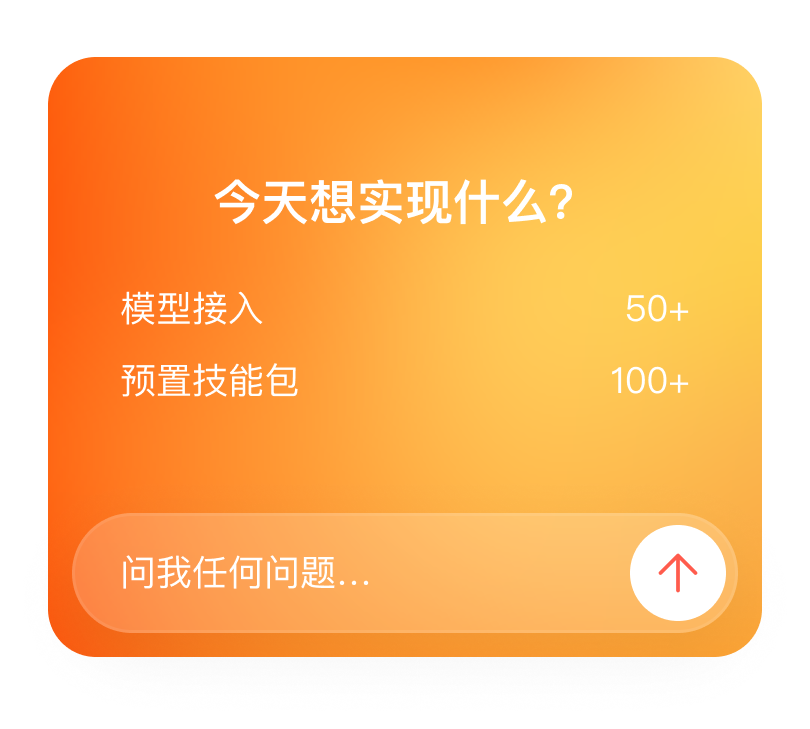
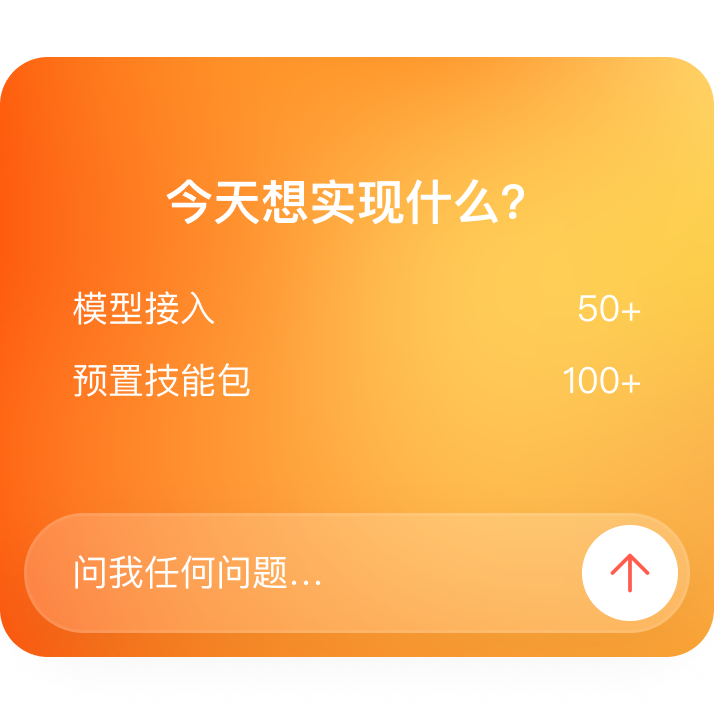
Update capabilities bento visuals

diff --git a/index.html b/index.html
@@ -8,7 +8,7 @@
   <script src="js/preload.js"></script>
   <script src="js/breakpoints.js"></script>
   <link rel="stylesheet" href="css/breakpoints.css" />
-  <link rel="stylesheet" href="css/styles.css?v=mobile-settings-presets-20260815" />
+  <link rel="stylesheet" href="css/styles.css?v=capability-daily-visual-center-20260817" />
 </head>
 <body>
 
@@ -305,7 +305,7 @@
 </section>
 <section class="section flow-section"><div class="flow-noise" aria-hidden="true"></div><div class="flow-sticky"><div class="flow-multi-stage"><div class="flow-track flow-multi-cards" aria-label="Hz-Hermes 执行链路"><article style="--x:-442.4px;--y:-238px;--w:317.2px;--h:63.7px;--from-x:-1100;--from-y:-700;--start:.1;--start-scale:.4"><div class="flow-card-anim"><div class="flow-card-inner"><div class="flow-card-main"><span>01</span><h3>任务接收</h3></div><p>理解真实意图</p></div></div></article><article style="--x:218.6px;--y:-257px;--w:317.2px;--h:65px;--from-x:700;--from-y:-800;--start:.55;--start-scale:.5"><div class="flow-card-anim"><div class="flow-card-inner"><div class="flow-card-main"><span>02</span><h3>任务拆解</h3></div><p>解析执行步骤</p></div></div></article><article style="--x:511px;--y:-57px;--w:226px;--h:45.385px;--from-x:1300;--from-y:-200;--start:.3;--start-scale:.55"><div class="flow-card-anim"><div class="flow-card-inner"><div class="flow-card-main"><span>03</span><h3>流程调度</h3></div><p>编排顺序与资源</p></div></div></article><article style="--x:-546.4px;--y:128px;--w:317.2px;--h:65px;--from-x:-1300;--from-y:250;--start:.65;--start-scale:.45"><div class="flow-card-anim"><div class="flow-card-inner"><div class="flow-card-main"><span>04</span><h3>工具调用</h3></div><p>激活专业能力</p></div></div></article><article style="--x:229px;--y:155px;--w:218px;--h:44.672px;--from-x:700;--from-y:500;--start:.8;--start-scale:.5"><div class="flow-card-anim"><div class="flow-card-inner is-muted"><div class="flow-card-main"><span>05</span><h3>协助执行</h3></div><p>跨应用完成操作</p></div></div></article><article style="--x:715.5px;--y:165px;--w:409px;--h:83.811px;--from-x:1500;--from-y:350;--start:.2;--start-scale:.35"><div class="flow-card-anim"><div class="flow-card-inner"><div class="flow-card-main"><span>06</span><h3>结果交付</h3></div><p>输出可用成品</p></div></div></article><article aria-hidden="true" class="flow-card-skeleton" style="--x:-800px;--y:-137px;--w:200px;--h:42px;--from-x:-1800;--from-y:-400;--start:0;--start-scale:.55"><div class="flow-card-anim"><div class="flow-card-inner is-muted"><div class="flow-card-main"><span></span><h3></h3></div><p></p></div></div></article><article aria-hidden="true" class="flow-card-skeleton" style="--x:620px;--y:-177px;--w:200px;--h:40px;--from-x:1300;--from-y:-700;--start:.5;--start-scale:.6"><div class="flow-card-anim"><div class="flow-card-inner is-muted"><div class="flow-card-main"><span></span><h3></h3></div><p></p></div></div></article><article aria-hidden="true" class="flow-card-skeleton" style="--x:850px;--y:3px;--w:200px;--h:42px;--from-x:1900;--from-y:-100;--start:.15;--start-scale:.45"><div class="flow-card-anim"><div class="flow-card-inner is-muted"><div class="flow-card-main"><span></span><h3></h3></div><p></p></div></div></article><article aria-hidden="true" class="flow-card-skeleton" style="--x:320px;--y:303px;--w:240px;--h:46px;--from-x:1100;--from-y:900;--start:.7;--start-scale:.4"><div class="flow-card-anim"><div class="flow-card-inner"><div class="flow-card-main"><span></span><h3></h3></div><p></p></div></div></article><article aria-hidden="true" class="flow-card-skeleton" style="--x:-450px;--y:333px;--w:220px;--h:42px;--from-x:-1500;--from-y:800;--start:.85;--start-scale:.5"><div class="flow-card-anim"><div class="flow-card-inner is-muted"><div class="flow-card-main"><span></span><h3></h3></div><p></p></div></div></article><article aria-hidden="true" class="flow-card-skeleton" style="--x:-98.4px;--y:267px;--w:317.2px;--h:65px;--from-x:0;--from-y:900;--start:.4;--start-scale:.45"><div class="flow-card-anim"><div class="flow-card-inner"><div class="flow-card-main"><span></span><h3></h3></div><p></p></div></div></article></div><div class="section-title centered flow-multi-title"><h2><span class="flow-word flow-word-1"><span>从一句话</span></span> <span class="flow-word flow-word-2"><span>到一个结果</span></span></h2><p>你给出指令，Hz-Hermes 自主完成全部执行链路。</p></div></div></div>
 </section>
-<section class="section capabilities-section capabilities-bento"><div class="section-title"><h2>让 AI 能力<br/>真正融入日常工作</h2><p>从日常办公到专业领域，一个 AI 搞定。</p></div><div class="capability-list" role="list"><article role="listitem"><span class="cap-number">01</span><div class="capability-copy"><h3>深度研究</h3><p>给一个主题，它会自主搜索、交叉验证、整理输出结构化报告。做完直接生成网页或文档，拿来就能用。</p></div><div class="capability-visual" aria-hidden="true"><svg class="cap-cover-icon" viewBox="0 0 24 24"><path d="m8 11 2 2 4-4"></path><circle cx="11" cy="11" r="8"></circle><path d="m21 21-4.3-4.3"></path></svg></div></article><article role="listitem"><span class="cap-number">02</span><div class="capability-copy"><h3>AI 智能客服</h3><p>对接微信与公众号，自动识别客户意图并回复。常见问题自动处理，复杂情况升级人工。</p></div><div class="capability-visual" aria-hidden="true"><svg class="cap-cover-icon" viewBox="0 0 24 24"><path d="M21 15a2 2 0 0 1-2 2H7l-4 4V5a2 2 0 0 1 2-2h14a2 2 0 0 1 2 2z"></path><path d="M13 8H7"></path><path d="M17 12H7"></path></svg></div></article><article role="listitem"><span class="cap-number">03</span><div class="capability-copy"><h3>内容创作</h3><p>写文案、做 PPT、生成宣传图、剪视频脚本、设计网页，从文字到视觉完成高质量交付。</p></div><div class="capability-visual" aria-hidden="true"><svg class="cap-cover-icon" viewBox="0 0 24 24"><path d="M9.937 15.5A2 2 0 0 0 8.5 14.063l-6.135-1.582a.5.5 0 0 1 0-.962L8.5 9.936A2 2 0 0 0 9.937 8.5l1.582-6.135a.5.5 0 0 1 .962 0L14.063 8.5A2 2 0 0 0 15.5 9.937l6.135 1.581a.5.5 0 0 1 0 .964L15.5 14.063a2 2 0 0 0-1.437 1.437l-1.582 6.135a.5.5 0 0 1-.962 0z"></path><path d="M20 3v4"></path><path d="M22 5h-4"></path><path d="M4 17v2"></path><path d="M5 18H3"></path></svg></div></article><article role="listitem"><span class="cap-number">04</span><div class="capability-copy"><h3>数据分析</h3><p>上传 Excel 或 CSV，完成探索性分析、可视化图表与洞察报告，不用写代码也能拿到结论。</p></div><div class="capability-visual" aria-hidden="true"><svg class="cap-cover-icon" viewBox="0 0 24 24"><path d="M12 16v5"></path><path d="M16 14v7"></path><path d="M20 10v11"></path><path d="m22 3-8.646 8.646a.5.5 0 0 1-.708 0L9.354 8.354a.5.5 0 0 0-.707 0L2 15"></path><path d="M4 18v3"></path><path d="M8 14v7"></path></svg></div></article><article role="listitem"><span class="cap-number">05</span><div class="capability-copy"><h3>文档撰写</h3><p>标书、报告、论文、方案，从深度研究、整理框架到撰写排版，一条任务完整推进。</p></div><div class="capability-visual" aria-hidden="true"><svg class="cap-cover-icon" viewBox="0 0 24 24"><path d="M15 2H6a2 2 0 0 0-2 2v16a2 2 0 0 0 2 2h12a2 2 0 0 0 2-2V7z"></path><path d="M14 2v4a2 2 0 0 0 2 2h4"></path><path d="M10 9H8"></path><path d="M16 13H8"></path><path d="M16 17H8"></path></svg></div></article><article role="listitem"><span class="cap-number">06</span><div class="capability-copy"><h3>定时自动化</h3><p>日报生成、竞品监控、数据巡检。设置一次，每日自动执行并推送到微信或钉钉。</p></div><div class="cap-daily-brief" aria-hidden="true"><div class="cap-daily-heading"><div class="cap-daily-title">每日简报简</div><button class="cap-daily-close" type="button" tabindex="-1" aria-label="关闭"><svg viewBox="0 0 24 24" aria-hidden="true"><path d="M18 6 6 18"></path><path d="m6 6 12 12"></path></svg></button></div><div class="cap-daily-content"><p>每日收集10条最热门简报，发送到我的邮箱 <span>📮</span>xiaoyun@mail.com</p></div><div class="cap-daily-footer"><div class="cap-daily-toolbar"><button class="cap-daily-tool" type="button" tabindex="-1"><img src="assets/capabilities/daily/daily-laptop.svg" alt=""/><span>对话</span><img src="assets/capabilities/daily/daily-chevron-down.svg" alt=""/></button><button class="cap-daily-tool" type="button" tabindex="-1"><img src="assets/capabilities/daily/daily-folder-closed.svg" alt=""/><span>默认目录</span><img src="assets/capabilities/daily/daily-chevron-down.svg" alt=""/></button><button class="cap-daily-tool" type="button" tabindex="-1"><img src="assets/capabilities/daily/daily-timer.svg" alt=""/><span>工作日09:00</span><img src="assets/capabilities/daily/daily-chevron-down.svg" alt=""/></button><button class="cap-daily-tool" type="button" tabindex="-1"><img src="assets/capabilities/daily/daily-package.svg" alt=""/><span>默认模型</span><img src="assets/capabilities/daily/daily-chevron-down.svg" alt=""/></button><button class="cap-daily-tool" type="button" tabindex="-1"><img src="assets/capabilities/daily/daily-layout-grid.svg" alt=""/><span>已设2项</span><img src="assets/capabilities/daily/daily-chevron-down.svg" alt=""/></button></div><div class="cap-daily-actions"><button class="cap-daily-button cap-daily-cancel" type="button" tabindex="-1">取消</button><button class="cap-daily-button cap-daily-create" type="button" tabindex="-1">创建</button></div></div></div></article></div>
+<section class="section capabilities-section capabilities-bento"><div class="section-title"><h2>让 AI 能力<br/>真正融入日常工作</h2><p>从日常办公到专业领域，一个 AI 搞定。</p></div><div class="capability-list" role="list"><article role="listitem"><span class="cap-number">01</span><div class="capability-copy"><h3>深度研究</h3><p>给一个主题，它会自主搜索、交叉验证、整理输出结构化报告。做完直接生成网页或文档，拿来就能用。</p></div><div class="capability-visual" aria-hidden="true"><img class="capability-visual-image" src="assets/capabilities/bento-visual-1.png?v=20260817b" alt="" /><svg class="cap-cover-icon" viewBox="0 0 24 24"><path d="m8 11 2 2 4-4"></path><circle cx="11" cy="11" r="8"></circle><path d="m21 21-4.3-4.3"></path></svg></div></article><article role="listitem"><span class="cap-number">02</span><div class="capability-copy"><h3>AI 智能客服</h3><p>对接微信与公众号，自动识别客户意图并回复。常见问题自动处理，复杂情况升级人工。</p></div><div class="capability-visual" aria-hidden="true"><img class="capability-visual-image" src="assets/capabilities/bento-visual-2.png?v=20260817b" alt="" /><svg class="cap-cover-icon" viewBox="0 0 24 24"><path d="M21 15a2 2 0 0 1-2 2H7l-4 4V5a2 2 0 0 1 2-2h14a2 2 0 0 1 2 2z"></path><path d="M13 8H7"></path><path d="M17 12H7"></path></svg></div></article><article role="listitem"><span class="cap-number">03</span><div class="capability-copy"><h3>内容创作</h3><p>写文案、做 PPT、生成宣传图、剪视频脚本、设计网页，从文字到视觉完成高质量交付。</p></div><div class="capability-visual" aria-hidden="true"><img class="capability-visual-image" src="assets/capabilities/bento-visual-3.png?v=20260817b" alt="" /><svg class="cap-cover-icon" viewBox="0 0 24 24"><path d="M9.937 15.5A2 2 0 0 0 8.5 14.063l-6.135-1.582a.5.5 0 0 1 0-.962L8.5 9.936A2 2 0 0 0 9.937 8.5l1.582-6.135a.5.5 0 0 1 .962 0L14.063 8.5A2 2 0 0 0 15.5 9.937l6.135 1.581a.5.5 0 0 1 0 .964L15.5 14.063a2 2 0 0 0-1.437 1.437l-1.582 6.135a.5.5 0 0 1-.962 0z"></path><path d="M20 3v4"></path><path d="M22 5h-4"></path><path d="M4 17v2"></path><path d="M5 18H3"></path></svg></div></article><article role="listitem"><span class="cap-number">04</span><div class="capability-copy"><h3>数据分析</h3><p>上传 Excel 或 CSV，完成探索性分析、可视化图表与洞察报告，不用写代码也能拿到结论。</p></div><div class="capability-visual" aria-hidden="true"><img class="capability-visual-image" src="assets/capabilities/bento-visual-4.png?v=20260817b" alt="" /><svg class="cap-cover-icon" viewBox="0 0 24 24"><path d="M12 16v5"></path><path d="M16 14v7"></path><path d="M20 10v11"></path><path d="m22 3-8.646 8.646a.5.5 0 0 1-.708 0L9.354 8.354a.5.5 0 0 0-.707 0L2 15"></path><path d="M4 18v3"></path><path d="M8 14v7"></path></svg></div></article><article role="listitem"><span class="cap-number">05</span><div class="capability-copy"><h3>文档撰写</h3><p>标书、报告、论文、方案，从深度研究、整理框架到撰写排版，一条任务完整推进。</p></div><div class="capability-visual" aria-hidden="true"><img class="capability-visual-image" src="assets/capabilities/bento-visual-5.png?v=20260817b" alt="" /><svg class="cap-cover-icon" viewBox="0 0 24 24"><path d="M15 2H6a2 2 0 0 0-2 2v16a2 2 0 0 0 2 2h12a2 2 0 0 0 2-2V7z"></path><path d="M14 2v4a2 2 0 0 0 2 2h4"></path><path d="M10 9H8"></path><path d="M16 13H8"></path><path d="M16 17H8"></path></svg></div></article><article role="listitem"><span class="cap-number">06</span><div class="capability-copy"><h3>定时自动化</h3><p>日报生成、竞品监控、数据巡检。设置一次，每日自动执行并推送到微信或钉钉。</p></div><div class="capability-visual cap-daily-visual" aria-hidden="true"><div class="cap-daily-brief"><div class="cap-daily-heading"><div class="cap-daily-title">每日简报</div><button class="cap-daily-close" type="button" tabindex="-1" aria-label="关闭"><svg viewBox="0 0 24 24" aria-hidden="true"><path d="M18 6 6 18"></path><path d="m6 6 12 12"></path></svg></button></div><div class="cap-daily-content"><p>每日收集10条最热门简报，发送到我的邮箱 <span>📮</span>xiaoyun@mail.com</p></div><div class="cap-daily-footer"><div class="cap-daily-toolbar"><button class="cap-daily-tool" type="button" tabindex="-1"><img src="assets/capabilities/daily/daily-laptop.svg" alt=""/><span>对话</span><img src="assets/capabilities/daily/daily-chevron-down.svg" alt=""/></button><button class="cap-daily-tool" type="button" tabindex="-1"><img src="assets/capabilities/daily/daily-folder-closed.svg" alt=""/><span>默认目录</span><img src="assets/capabilities/daily/daily-chevron-down.svg" alt=""/></button><button class="cap-daily-tool" type="button" tabindex="-1"><img src="assets/capabilities/daily/daily-timer.svg" alt=""/><span>工作日09:00</span><img src="assets/capabilities/daily/daily-chevron-down.svg" alt=""/></button><button class="cap-daily-tool" type="button" tabindex="-1"><img src="assets/capabilities/daily/daily-package.svg" alt=""/><span>默认模型</span><img src="assets/capabilities/daily/daily-chevron-down.svg" alt=""/></button><button class="cap-daily-tool" type="button" tabindex="-1"><img src="assets/capabilities/daily/daily-layout-grid.svg" alt=""/><span>已设2项</span><img src="assets/capabilities/daily/daily-chevron-down.svg" alt=""/></button></div><div class="cap-daily-actions"><button class="cap-daily-button cap-daily-cancel" type="button" tabindex="-1">取消</button><button class="cap-daily-button cap-daily-create" type="button" tabindex="-1">创建</button></div></div></div></div></article></div>
 </section>
 <section class="section desktop-section" id="desktop"><div class="desktop-copy"><h2>你下指令<br/>它跑腿</h2><p>Hz-Hermes 能理解你的工作场景和需求，在你授权和控制下，协助完成电脑上的各类操作。</p><p>你不需要自己打开软件、点击按钮或填写表格。告诉它要什么结果，它来执行过程；每一步清晰透明，可随时查看、暂停或调整。</p><div class="check-list"><div><span class="check-icon"><svg aria-hidden="true" viewBox="0 0 24 24"><path d="M12 3 20 7v5c0 4.6-3.2 7.9-8 9-4.8-1.1-8-4.4-8-9V7z"></path><path d="m9 12 2 2 4-5"></path></svg></span><p><strong>全程可控</strong>所有操作经你授权，每一步可查看、可撤回</p></div><div><span class="check-icon"><svg aria-hidden="true" viewBox="0 0 24 24"><rect x="5" y="11" width="14" height="10" rx="2"></rect><path d="M8 11V8a4 4 0 0 1 8 0v3"></path><path d="M12 15v2"></path></svg></span><p><strong>安全隔离</strong>在独立沙箱中执行，不影响系统安全</p></div><div><span class="check-icon"><svg aria-hidden="true" viewBox="0 0 24 24"><path d="M12 6v6l4 2"></path><circle cx="12" cy="12" r="9"></circle><path d="M18.4 5.6 20 4"></path><path d="M4 4l1.6 1.6"></path></svg></span><p><strong>后台运行</strong>不打扰当前工作，默默完成任务</p></div><div><span class="check-icon"><svg aria-hidden="true" viewBox="0 0 24 24"><rect x="3" y="4" width="7" height="6" rx="1.5"></rect><rect x="14" y="14" width="7" height="6" rx="1.5"></rect><path d="M10 7h2a3 3 0 0 1 3 3v4"></path><path d="m13 12 2 2 2-2"></path></svg></span><p><strong>跨应用协作</strong>一条指令串起消息、数据与报表</p></div></div></div><div class="desktop-visual"><div class="desktop-card top-card"><span>客户消息</span><strong>3 条咨询已回复</strong><small>1 条需要确认 · 已标记</small></div><div class="desktop-card report-card"><div class="report-head"><span>销售周报</span><b>第 30 周</b></div><div class="chart"><i style="height:42%"></i><i style="height:58%"></i><i style="height:48%"></i><i style="height:78%"></i><i style="height:69%"></i><i style="height:92%"></i><i style="height:83%"></i></div><div class="report-foot"><strong>+18.6%</strong><span>较上周增长</span></div></div><div class="desktop-card bottom-card"><span>✓</span><p><strong>任务已完成</strong><small>销售报表已生成并发送</small></p></div></div>
 </section>
@@ -364,6 +364,6 @@
 </footer>
 </main>
 
-  <script src="js/app.js"></script>
+  <script src="js/app.js?v=capability-daily-visual-shell-20260817"></script>
 </body>
 </html>

diff --git a/css/styles.css b/css/styles.css
@@ -14006,6 +14006,8 @@ body .download-support-button {
 .capabilities-section.capabilities-bento .capability-visual,
 .capabilities-section.capabilities-bento .capability-list article:nth-child(1) .capability-visual,
 .capabilities-section.capabilities-bento .capability-list article:nth-child(6) .capability-visual {
+  --cap-visual-width: 238px;
+  --cap-visual-height: 238px;
   position: absolute !important;
   inset: 32px 32px 136px !important;
   z-index: 1 !important;
@@ -14029,30 +14031,53 @@ body .download-support-button {
 }
 
 .capabilities-section.capabilities-bento .capability-list article:nth-child(1) .capability-visual {
-  background-image: url("../assets/capabilities/bento-visual-1.png") !important;
-  background-size: 270px 243px !important;
+  --cap-visual-width: 238px;
+  --cap-visual-height: 238px;
+  right: 20px !important;
+  left: 20px !important;
 }
 
 .capabilities-section.capabilities-bento .capability-list article:nth-child(2) .capability-visual {
-  background-image: url("../assets/capabilities/bento-visual-2.png") !important;
-  background-size: 238px 238px !important;
+  --cap-visual-width: 238px;
+  --cap-visual-height: 238px;
+  right: 20px !important;
+  left: 20px !important;
 }
 
 .capabilities-section.capabilities-bento .capability-list article:nth-child(3) .capability-visual {
-  background-image: url("../assets/capabilities/bento-visual-3.png") !important;
-  background-size: 238px 238px !important;
+  --cap-visual-width: 238px;
+  --cap-visual-height: 238px;
+  right: 20px !important;
+  left: 20px !important;
 }
 
 .capabilities-section.capabilities-bento .capability-list article:nth-child(4) .capability-visual {
+  --cap-visual-width: 262px;
+  --cap-visual-height: 238px;
   right: 20px !important;
   left: 20px !important;
-  background-image: url("../assets/capabilities/bento-visual-4.png") !important;
-  background-size: 262px 238px !important;
 }
 
 .capabilities-section.capabilities-bento .capability-list article:nth-child(5) .capability-visual {
-  background-image: url("../assets/capabilities/bento-visual-5.png") !important;
-  background-size: 238px 238px !important;
+  --cap-visual-width: 238px;
+  --cap-visual-height: 238px;
+  right: 20px !important;
+  left: 20px !important;
+}
+
+.capabilities-section.capabilities-bento .capability-visual-image {
+  width: auto !important;
+  height: auto !important;
+  inline-size: auto !important;
+  block-size: auto !important;
+  max-inline-size: min(var(--cap-visual-width), 100%) !important;
+  max-block-size: min(var(--cap-visual-height), 100%) !important;
+  max-width: min(var(--cap-visual-width), 100%) !important;
+  max-height: min(var(--cap-visual-height), 100%) !important;
+  object-fit: contain !important;
+  object-position: center !important;
+  display: block !important;
+  flex: 0 1 auto !important;
 }
 
 .capabilities-section.capabilities-bento .capability-visual > svg,
@@ -14060,23 +14085,30 @@ body .download-support-button {
   display: none !important;
 }
 
-.capabilities-section.capabilities-bento .capability-list article:nth-child(6) .capability-visual {
-  inset: 96px 32px 156px 32px !important;
+.capabilities-section.capabilities-bento .capability-list article:nth-child(6) .cap-daily-visual {
+  inset: 32px 32px auto 32px !important;
+  height: 244px !important;
+  min-height: 244px !important;
+  max-height: 244px !important;
+  display: flex !important;
+  align-items: center !important;
+  justify-content: center !important;
   overflow: visible !important;
   border-radius: 0 !important;
 }
 
 .capabilities-section.capabilities-bento .cap-daily-brief {
-  position: absolute !important;
-  inset: 96px 32px 156px !important;
+  position: relative !important;
+  inset: auto !important;
   z-index: 1 !important;
-  width: auto !important;
+  width: 100% !important;
+  max-width: 100% !important;
   height: auto !important;
   display: flex !important;
   flex-direction: column !important;
   overflow: hidden !important;
   background: #fff !important;
-  border-radius: 16px 16px 0 0 !important;
+  border-radius: 16px 16px 32px 0 !important;
   box-shadow: none !important;
   color: #000 !important;
   box-sizing: border-box !important;
@@ -14156,7 +14188,7 @@ body .download-support-button {
 .capabilities-section.capabilities-bento .cap-daily-content {
   height: 95px !important;
   flex: 0 0 95px !important;
-  padding: 16px 24px !important;
+  padding: 16px 24px 24px !important;
   box-sizing: border-box !important;
 }
 
@@ -14259,16 +14291,30 @@ body .download-support-button {
     bottom: auto !important;
   }
 
-  .capabilities-section.capabilities-bento .capability-list article:nth-child(6) .capability-visual {
+  .capabilities-section.capabilities-bento .capability-list article:nth-child(6) .cap-daily-visual {
     inset: auto 32px 0 32px !important;
     height: 227px !important;
+    min-height: 227px !important;
+    max-height: 227px !important;
+    align-items: flex-end !important;
     overflow: visible !important;
     border-radius: 0 !important;
   }
 
-  .capabilities-section.capabilities-bento .capability-list article:nth-child(6) > .cap-daily-brief {
-    inset: auto 32px 0 !important;
+  .capabilities-section.capabilities-bento .capability-list article:nth-child(6) .cap-daily-brief {
+    inset: auto !important;
     height: 227px !important;
+    border-radius: 16px 16px 0 0 !important;
+  }
+
+  .capabilities-section.capabilities-bento .cap-daily-footer {
+    display: flex !important;
+  }
+}
+
+@media (max-width: 1439px) {
+  .capabilities-section.capabilities-bento .cap-daily-footer {
+    display: none !important;
   }
 }
 
@@ -14363,11 +14409,27 @@ body .download-support-button {
     left: 24px !important;
   }
 
-  .capabilities-section.capabilities-bento .capability-list article:nth-child(6) .capability-visual {
-    inset: 96px 24px 180px !important;
+  .capabilities-section.capabilities-bento .capability-list article:nth-child(6) .cap-daily-visual {
+    top: 32px !important;
+    right: 24px !important;
+    bottom: auto !important;
+    left: 24px !important;
+    height: 244px !important;
+    min-height: 244px !important;
+    max-height: 244px !important;
   }
 
-  .capabilities-section.capabilities-bento .capability-list article:nth-child(6) > .cap-daily-brief {
-    inset: 96px 24px 180px !important;
+  .capabilities-section.capabilities-bento .capability-list article:nth-child(6) .cap-daily-brief {
+    inset: auto !important;
+    height: auto !important;
+    min-height: 0 !important;
+    max-height: none !important;
+  }
+
+  .capabilities-section.capabilities-bento .cap-daily-content {
+    height: auto !important;
+    max-height: none !important;
+    flex: 0 1 auto !important;
+    overflow: visible !important;
   }
 }

diff --git a/js/app.js b/js/app.js
@@ -405,6 +405,12 @@
     "认证审核中": "Verification pending",
     "进入企业版": "Enter enterprise",
     "用/skill-creator 创建一个技能，你先问我技能应该做什么吧。": "Use /skill-creator to create a skill. Ask me what the skill should do first.",
+    "每日简报": "Daily brief",
+    "每日收集10条最热门简报，发送到我的邮箱 📮xiaoyun@mail.com": "Collect 10 trending briefs daily and send them to my mailbox 📮xiaoyun@mail.com",
+    "默认目录": "Default folder",
+    "工作日09:00": "Weekdays 09:00",
+    "默认模型": "Default model",
+    "已设2项": "2 items set",
     "HZ HERMES 侧边导航": "HZ HERMES sidebar navigation",
     "Hz-Hermes 执行链路": "Hz-Hermes execution chain"
   };
@@ -429,6 +435,10 @@
     }
   };
   let currentLang = currentLangFromStorage();
+  const capabilityVisualImages = Array.from({ length: 5 }, (_, index) => ({
+    zh: `assets/capabilities/bento-visual-${index + 1}.png?v=20260817b`,
+    en: `assets/capabilities/bento-visual-en-${index + 1}.png?v=20260817`
+  }));
 
   function canonicalZh(value) {
     const trimmed = String(value || "").trim();
@@ -481,6 +491,19 @@
     $$("textarea").forEach((el) => {
       el.value = translatePhrase(el.value, currentLang);
     });
+    $$(".capabilities-bento .capability-visual-image").forEach((img, index) => {
+      const asset = capabilityVisualImages[index];
+      if (!asset) return;
+      img.setAttribute("src", currentLang === "en" ? asset.en : asset.zh);
+    });
+    const dailyTitle = $(".capabilities-bento .cap-daily-title");
+    if (dailyTitle) dailyTitle.textContent = currentLang === "en" ? "Daily brief" : "每日简报";
+    const dailyContent = $(".capabilities-bento .cap-daily-content p");
+    if (dailyContent) {
+      dailyContent.innerHTML = currentLang === "en"
+        ? 'Collect 10 trending briefs daily and send them to my mailbox <span>📮</span>xiaoyun@mail.com'
+        : '每日收集10条最热门简报，发送到我的邮箱 <span>📮</span>xiaoyun@mail.com';
+    }
     // Keep spaces-actions labels in sync even if stale EN copy is stuck in the DOM.
     const spacesApplyLabel = document.querySelector("#login-overlay .spaces-actions .spaces-apply:not(.spaces-more-account) span");
     if (spacesApplyLabel) spacesApplyLabel.textContent = translatePhrase("申请企业认证", currentLang);
